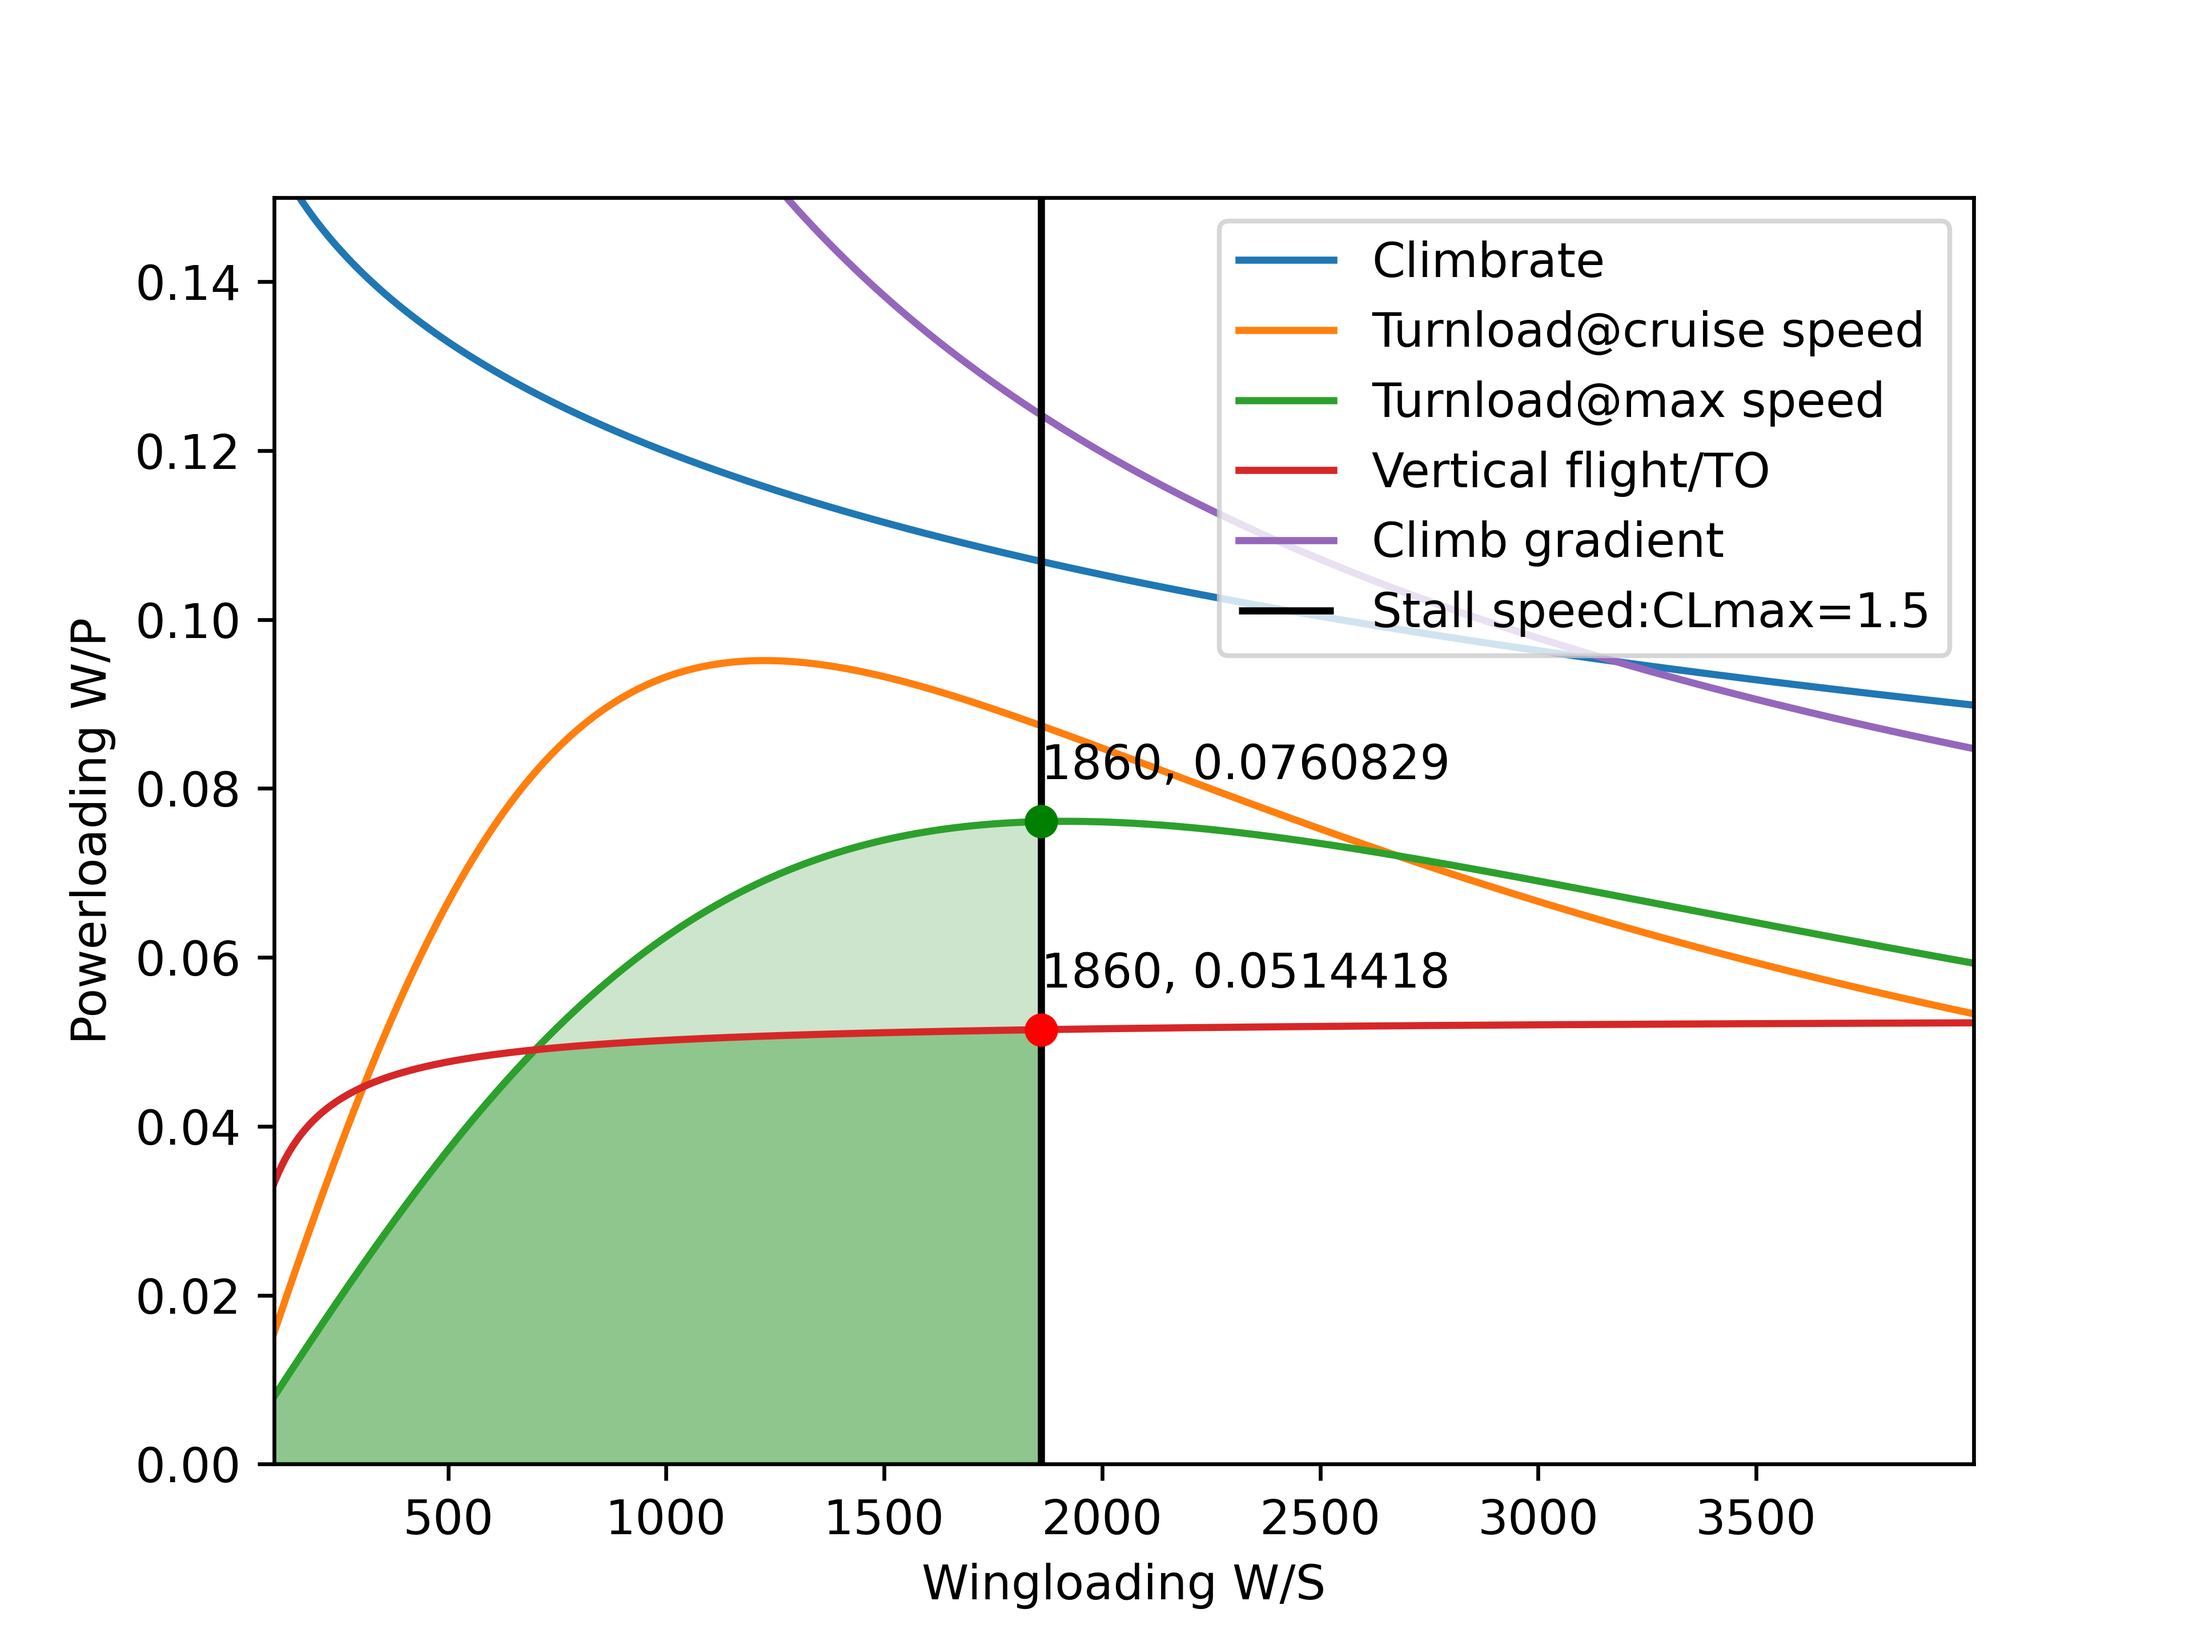
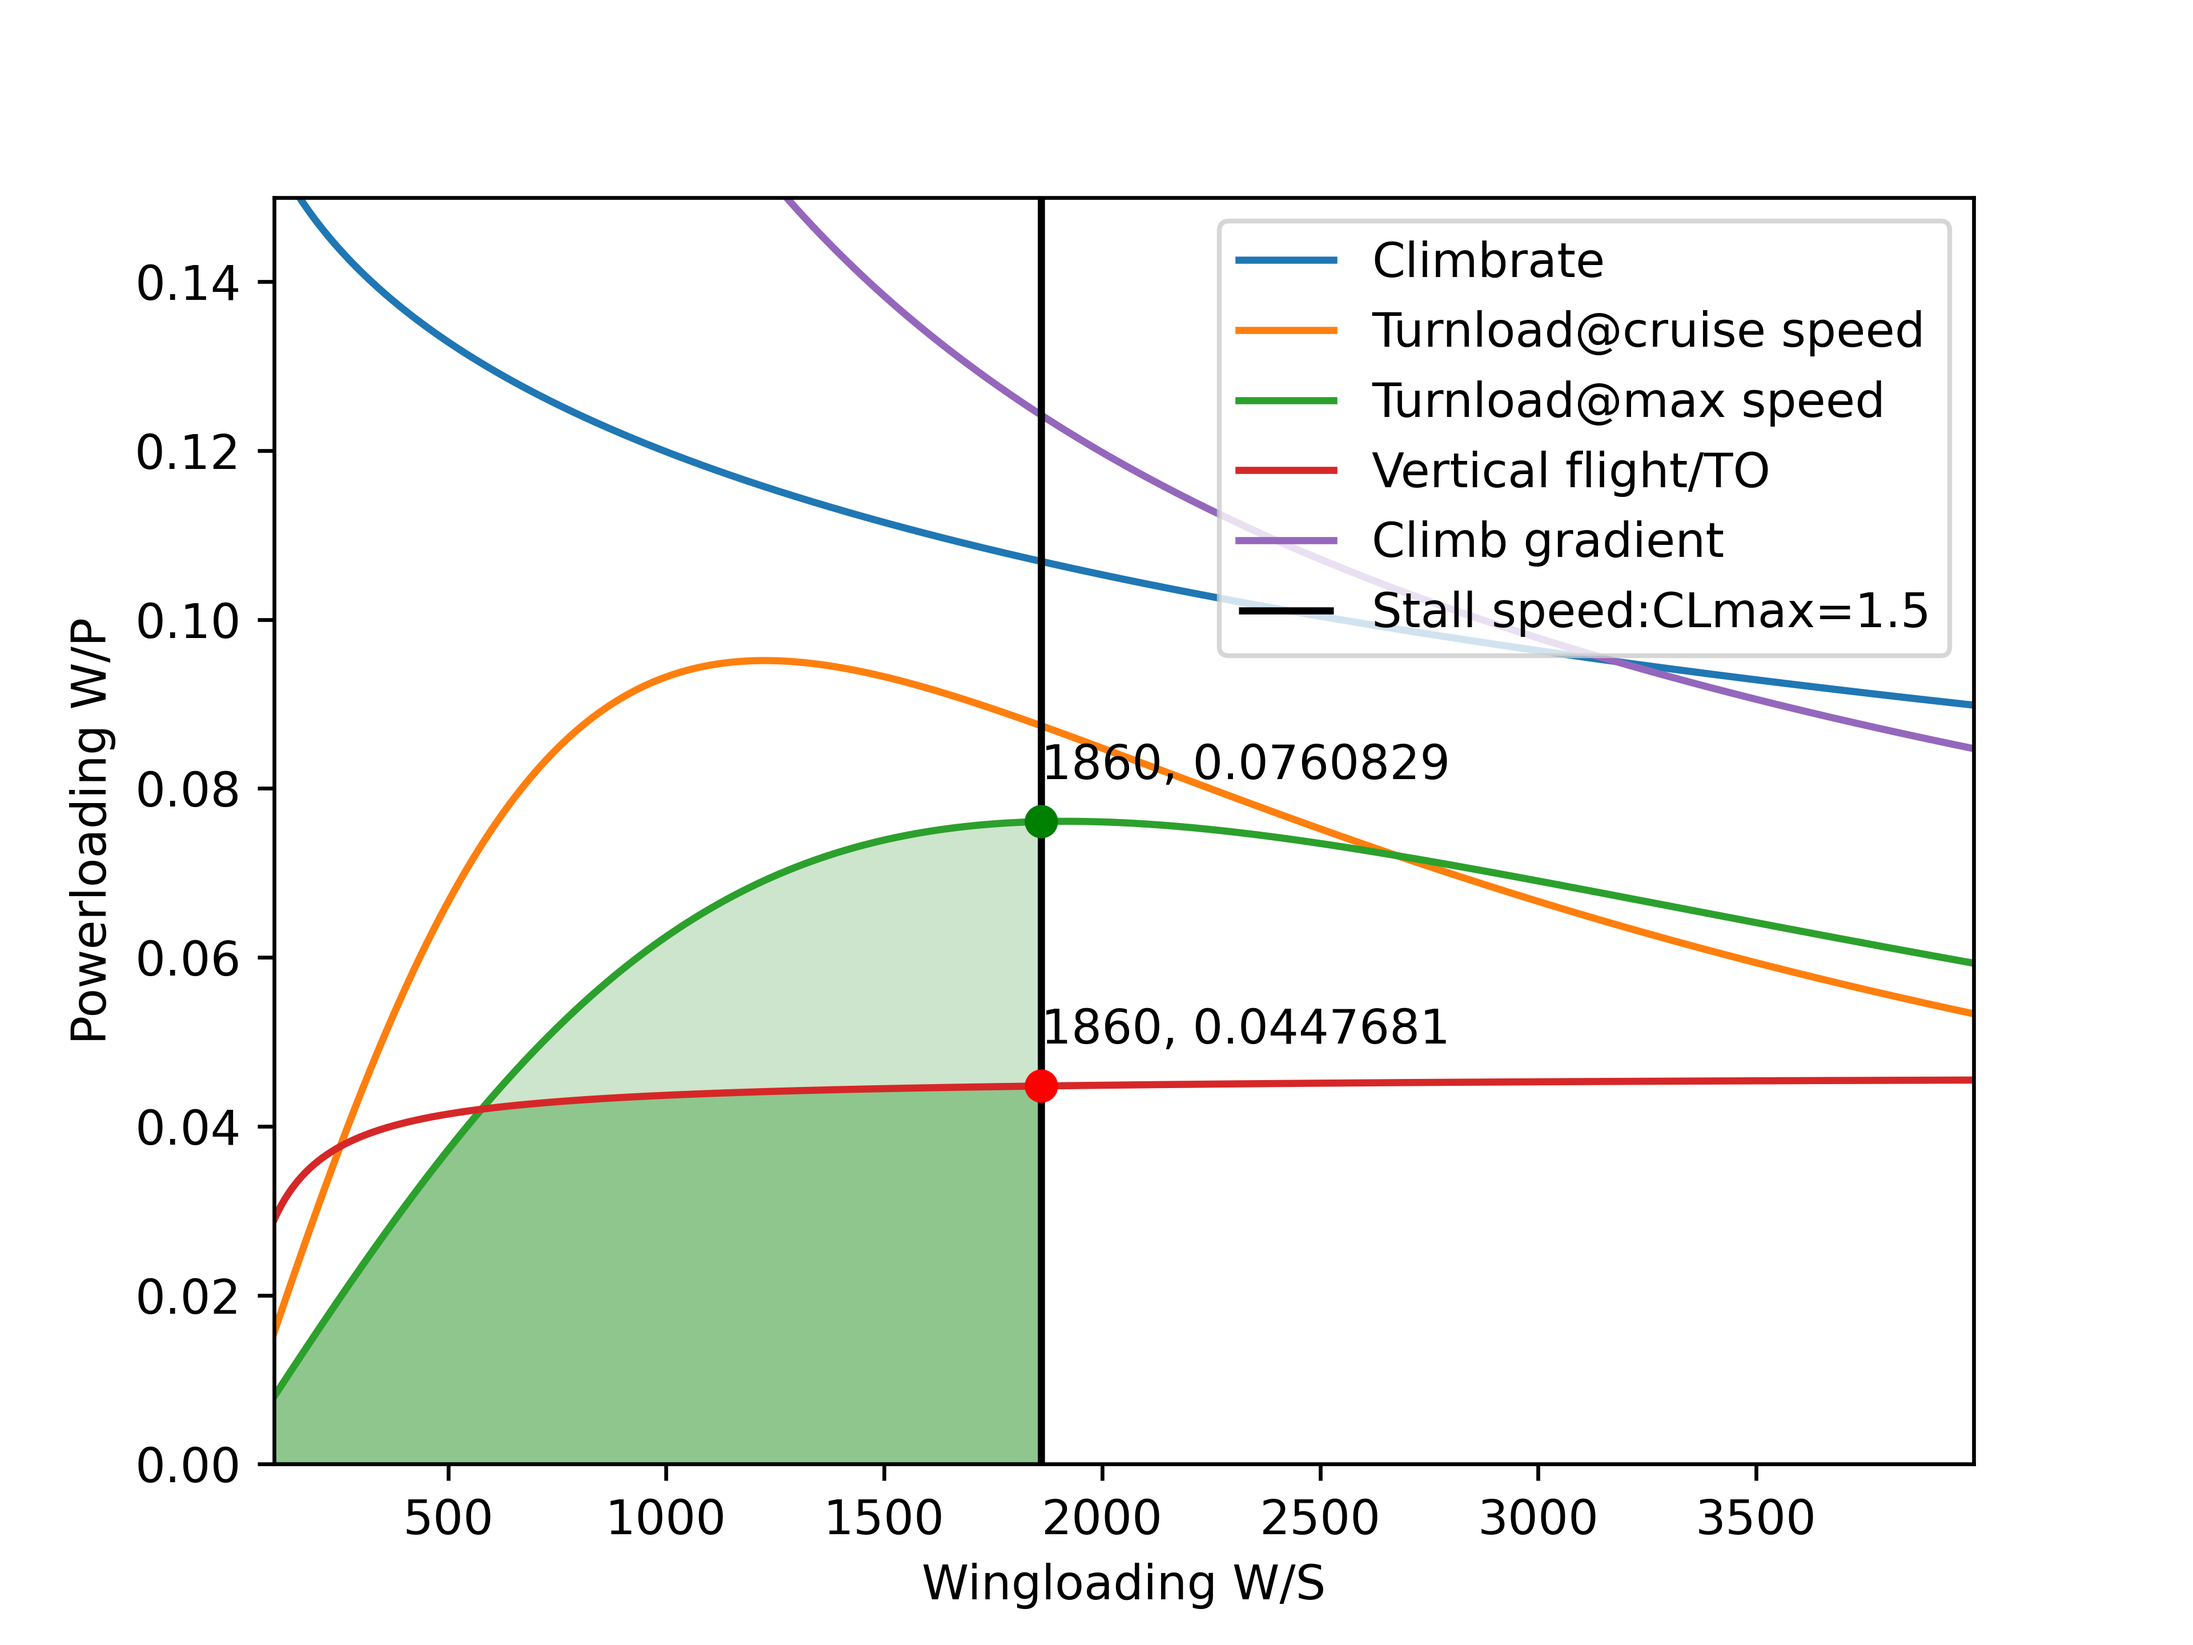
Added drag estimation in the convergence loop

Changed region(s): [[0.125, 0.5625, 0.9062, 0.7188]]

diff --git a/scripts/midterm_aerodynamics/drag_estimation.py b/scripts/midterm_aerodynamics/drag_estimation.py
@@ -14,8 +14,10 @@ os.chdir(str(list(pl.Path(__file__).parents)[2]))
 # import CL_cruise from json files
 
 # Define the directory and filenames of the JSON files
+TEST = int(input("\n\nType 1 if you want to write the JSON data to your download folder instead of the repo, type 0 otherwise:\n")) # Set to true if you want to write to your downloads folders instead of rep0
 dict_directory = "input"
 dict_names = ["J1_constants.json", "L1_constants.json", "W1_constants.json"]
+download_dir = os.path.join(os.path.expanduser("~"), "Downloads")
 
 atm = ISA(const.h_cruise)
 t_cr = atm.temperature()
@@ -73,5 +75,10 @@ for dict_name in dict_names:
         print("CD0_wing", CD_wing_var/data["S"])
         
         data["ld_cr"] = lift_over_drag_var
-        with open(os.path.join(dict_directory, dict_name), "w") as jsonFile:
-            json.dump(data, jsonFile, indent= 6)
+
+        if TEST:
+            with open(os.path.join(download_dir, dict_name), "w") as jsonFile:
+                json.dump(data, jsonFile, indent= 6)
+        else:
+            with open(os.path.join(dict_directory, dict_name), "w") as jsonFile:
+                json.dump(data, jsonFile, indent= 6)

diff --git a/scripts/midterm_convergence/plot_history.py b/scripts/midterm_convergence/plot_history.py
@@ -7,14 +7,16 @@ import pathlib as pl
 sys.path.append(str(list(pl.Path(__file__).parents)[2]))
 os.chdir(str(list(pl.Path(__file__).parents)[2]))
 
-label = str(37180)
+label = str(48536)
 
 csv_files = ["output\midterm_convergence\J1_" + label + "_hist.csv",
 "output\midterm_convergence\L1_" + label + "_hist.csv",
 "output\midterm_convergence\W1_" + label + "_hist.csv"
 ]
 
-for i in range(3):
+
+
+for i in range(4):
 
     fig, axs = plt.subplots(1,1)
 
@@ -34,6 +36,11 @@ for i in range(3):
         if i == 2: 
             axs.plot(data["S"].to_numpy(), "^-",  label= os.path.split(file)[-1][:2])
             axs.set_ylabel("Surface Area [m^2]")
+            axs.set_xlabel("Iterations")
+
+        if i == 3: 
+            axs.plot(data["ld_cr"].to_numpy(), "^-",  label= os.path.split(file)[-1][:2])
+            axs.set_ylabel(r"$\frac{L}{D}$ [-]")
             axs.set_xlabel("Iterations")
 
     axs.legend()

diff --git a/scripts/midterm_convergence/convergence.py b/scripts/midterm_convergence/convergence.py
@@ -20,6 +20,7 @@ label = str(np.random.randint(0,1e5,1)[0])
 python_files = [
     "scripts/Preliminary_sizing/wing_power_loading.py",
     "scripts/midterm_aerodynamics/planform_sizing.py",
+    "scripts/midterm_aerodynamics/drag_estimation.py",
     "scripts/midterm_prop_flight_perf/mission_power_energy.py",
     "scripts/midterm_structures/class2_weight_estimation.py"
 ]

diff --git a/modules/midterm_structures/ClassIIWeightEstimation.py b/modules/midterm_structures/ClassIIWeightEstimation.py
@@ -102,7 +102,7 @@ class LandingGear(Component):
     def __init__(self, mtom):
         """Computes the mass of the landing gear 
 
-        :param mtom:
+        :param mtom: maximum take off weight
         :type mtom: float
         """        
         super().__init__()
